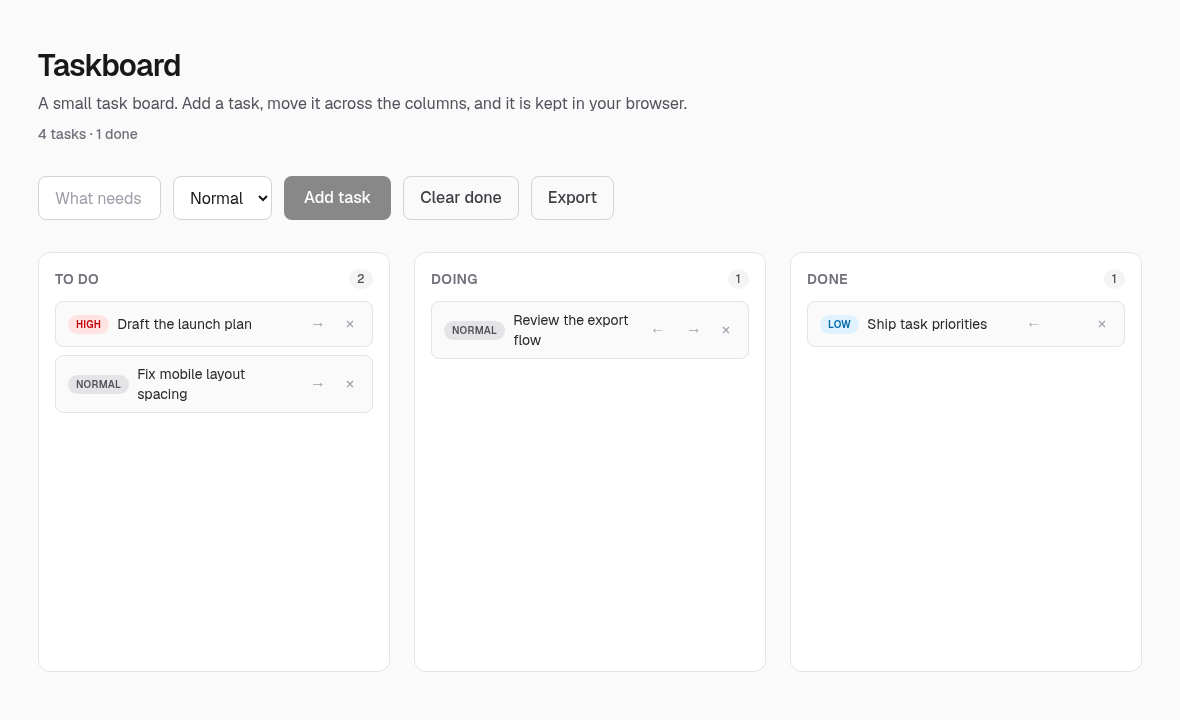
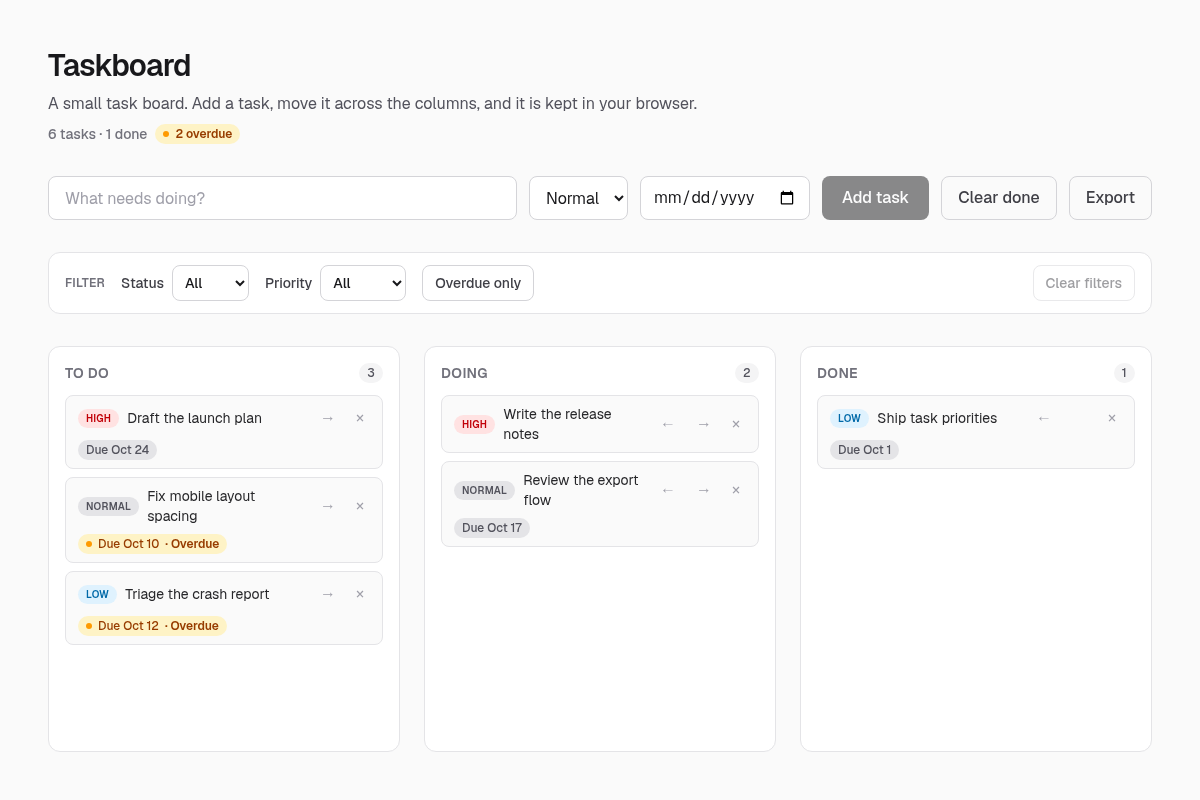
README: refresh screenshot with due dates, filters and the overdue callout

diff --git a/README.md b/README.md
@@ -1,12 +1,13 @@
 # Taskboard
 
 A small task board: add tasks, move them across **To do → Doing → Done**, set
-priorities, rename them inline, and export the board as JSON. Everything is
-kept in the browser's localStorage, so there is no backend to run.
+priorities and due dates, filter and order what you see, rename them inline,
+and export the board as JSON. Everything is kept in the browser's
+localStorage, so there is no backend to run.
 
 **[Open the live board →](https://gerrcass.github.io/taskboard/)**
 
-![The task board: tasks across the To do, Doing and Done columns](docs/screenshot.png)
+![The task board: filter bar, priority badges, due dates and an overdue callout](docs/screenshot.png)
 
 This repository is the demo app for the
 [software-factory](https://github.com/gerrcass/software-factory) pipeline:
